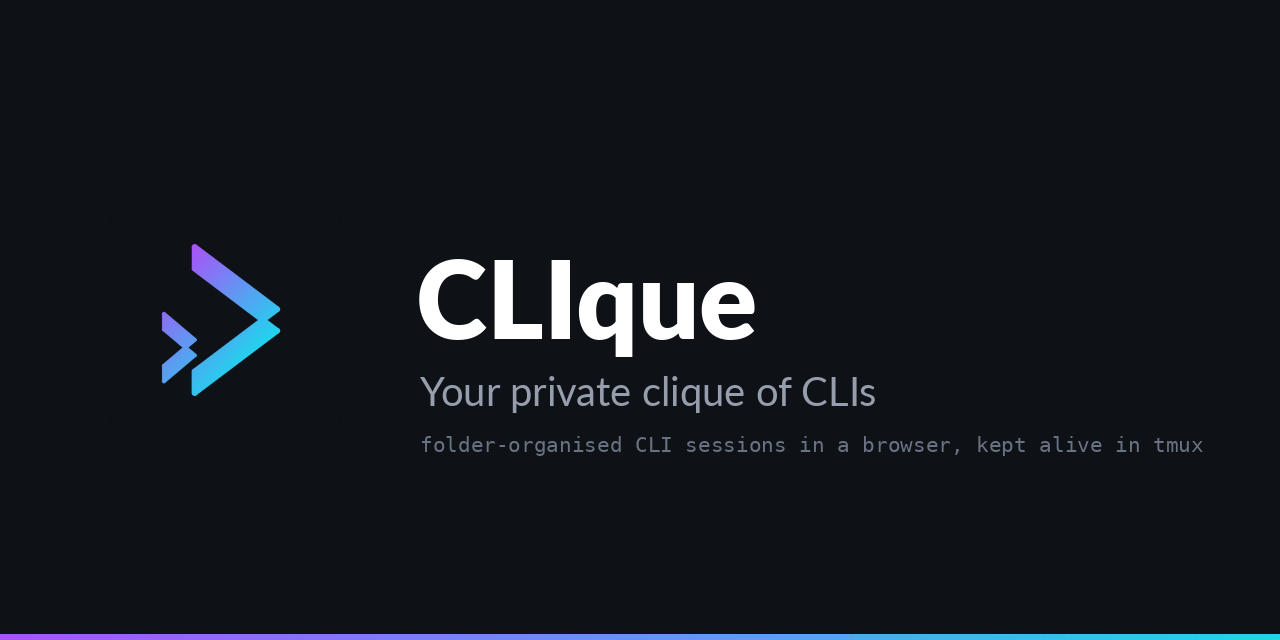
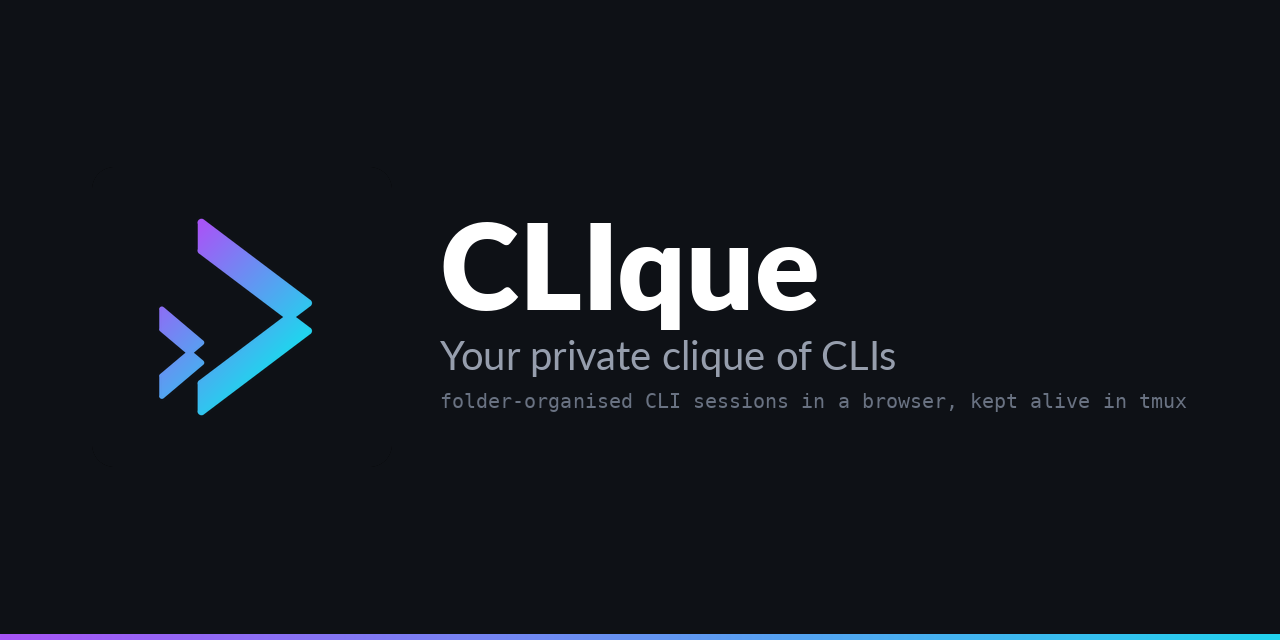
docs: tighter social card, coffee and donate on the listing
GitHub's preview is a fixed 1280x640; the lockup is packed and centred
so the thumbnail is not mostly empty. Coffee and donate badges sit with
the other listing badges, and the Sponsor button still points at BMC.

diff --git a/tools/make_brand.py b/tools/make_brand.py
@@ -322,8 +322,8 @@ def maskable_png(size: int) -> Image.Image:
 
 
 def social_png(width=1280, height=640) -> Image.Image:
-    """GitHub's social preview. Read at thumbnail size in a feed, so it is the
-    mark, the name and one line — nothing that needs zooming into."""
+    """GitHub's social preview. Canvas is a fixed 1280×640; the lockup is
+    packed and centred so a thumbnail is not mostly empty ink."""
     canvas = Image.new("RGB", (width, height), _rgb(INK))
     pen = ImageDraw.Draw(canvas)
 
@@ -335,30 +335,55 @@ def social_png(width=1280, height=640) -> Image.Image:
     strip = np.repeat((a + (b - a) * bar).astype(np.uint8), 6, axis=0)
     canvas.paste(Image.fromarray(strip), (0, height - 6))
 
-    icon = icon_png(232)
-    canvas.paste(icon, (110, (height - 232) // 2), icon)
-
     def font(path, size):
         try:
             return ImageFont.truetype(path, size)
         except OSError:
             return ImageFont.load_default()
 
-    lato = "/usr/share/fonts/truetype/lato/Lato-Black.ttf"
-    lato_r = "/usr/share/fonts/truetype/lato/Lato-Regular.ttf"
-    mono = "/usr/share/fonts/truetype/dejavu/DejaVuSansMono.ttf"
+    lato = font("/usr/share/fonts/truetype/lato/Lato-Black.ttf", 120)
+    lato_r = font("/usr/share/fonts/truetype/lato/Lato-Regular.ttf", 40)
+    mono = font("/usr/share/fonts/truetype/dejavu/DejaVuSansMono.ttf", 20)
 
-    x = 110 + 232 + 74
-    pen.text((x, 232), "CLIque", font=font(lato, 108), fill=(255, 255, 255))
-    pen.text(
-        (x + 4, 366), "Your private clique of CLIs", font=font(lato_r, 40), fill=(150, 158, 173)
-    )
-    pen.text(
-        (x + 4, 432),
+    title, tag, sub = (
+        "CLIque",
+        "Your private clique of CLIs",
         "folder-organised CLI sessions in a browser, kept alive in tmux",
-        font=font(mono, 21),
-        fill=(105, 114, 130),
     )
+
+    def size_of(text, fnt):
+        box = pen.textbbox((0, 0), text, font=fnt)
+        return box[2] - box[0], box[3] - box[1]
+
+    tw, th = size_of(title, lato)
+    gw, gh = size_of(tag, lato_r)
+    sw, sh = size_of(sub, mono)
+    gap_title, gap_tag = 10, 16
+    text_w = max(tw, gw, sw)
+    text_h = th + gap_title + gh + gap_tag + sh
+
+    icon_size = 300
+    icon = icon_png(icon_size)
+    gap = 48
+    group_w = icon_size + gap + text_w
+    group_h = max(icon_size, text_h)
+    ox = (width - group_w) // 2
+    oy = (height - 6 - group_h) // 2
+
+    canvas.paste(icon, (ox, oy + (group_h - icon_size) // 2), icon)
+    tx = ox + icon_size + gap
+    ty = oy + (group_h - text_h) // 2
+    # textbbox y-origin includes the font's top bearing; draw from ty as the
+    # visual top by offsetting with the bbox's y0.
+    def draw(text, fnt, fill, x, y):
+        y0 = pen.textbbox((0, 0), text, font=fnt)[1]
+        pen.text((x, y - y0), text, font=fnt, fill=fill)
+        return pen.textbbox((0, 0), text, font=fnt)[3] - y0
+
+    y = ty
+    y += draw(title, lato, (255, 255, 255), tx, y) + gap_title
+    y += draw(tag, lato_r, (150, 158, 173), tx, y) + gap_tag
+    draw(sub, mono, (105, 114, 130), tx, y)
     return canvas
 
 

diff --git a/README.md b/README.md
@@ -13,6 +13,8 @@
   <a href="LICENSE"><img src="https://img.shields.io/badge/license-MIT-5FA8F5?style=flat-square" alt="MIT"></a>
   <a href="CHANGELOG.md"><img src="https://img.shields.io/badge/version-0.24.0-A855F7?style=flat-square" alt="0.24.0"></a>
   <a href="https://github.com/thejdubb02/clique/stargazers"><img src="https://img.shields.io/github/stars/thejdubb02/clique?style=flat-square" alt="GitHub stars"></a>
+  <a href="https://buymeacoffee.com/jdubb"><img src="https://img.shields.io/badge/Buy%20me%20a%20coffee-FFDD00?style=flat-square&logo=buymeacoffee&logoColor=black" alt="Buy me a coffee"></a>
+  <a href="#support-the-dev"><img src="https://img.shields.io/badge/Donate-BTC%20%7C%20SHIB%20%7C%20DOGE-5FA8F5?style=flat-square" alt="Donate"></a>
 </p>
 
 ---
